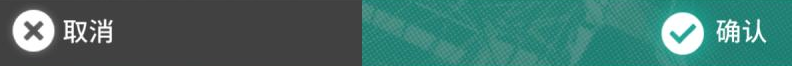
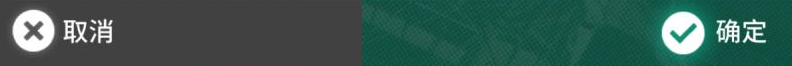
fix: release BlackFlow v1.1.17 with real refresh confirmation template

diff --git a/unit_test/MaaCore/BlackFlowMerchantInventoryReplay.h b/unit_test/MaaCore/BlackFlowMerchantInventoryReplay.h
@@ -66,6 +66,9 @@ void merchant_inventory_regressions(const std::filesystem::path& repo, Test&& te
         require(!image.empty(), name);
         return image;
     };
+    const auto refresh_dialog =
+        MAA_NS::imread(repo / "unit_test/MaaCore/fixtures/blackflow-recovery/20260930/refresh-confirm-wallet-16.jpg");
+    require(!refresh_dialog.empty(), "captured refresh dialog missing");
     const std::string refresh_confirm = "BlackFlow@Roguelike@AutomationShopRefreshConfirm";
     auto confirm_visible = [&](const cv::Mat& image) {
         Matcher matcher(image);
@@ -87,25 +90,38 @@ void merchant_inventory_regressions(const std::filesystem::path& repo, Test&& te
         const auto result = analyzer.analyze();
         require(result && result->task_ptr->name == refresh->name, "shelf routed to payment confirmation");
     });
-    test("shared green confirmation dialog remains recognizable", [&] {
-        // This is an actual inventory-full prompt with the same confirmation row,
-        // not a fabricated recording of a refresh dialog.
-        require(confirm_visible(refresh_frame("shared-confirm-dialog.jpg")), "real confirmation row rejected");
+    test("captured refresh confirmation is recognized before payment", [&] {
+        require(confirm_visible(refresh_dialog), "captured refresh confirmation rejected");
+        require(!BlackFlowStoreReplayAccess::wallet_page(store, refresh_dialog), "unpaid dialog accepted as a shelf");
+    });
+    test("opened refresh dialog routes to confirmation through the production pipeline", [&] {
+        PipelineAnalyzer analyzer(refresh_dialog);
+        analyzer.set_tasks(Task.get("BlackFlow@Roguelike@AutomationShopRefresh")->next);
+        const auto result = analyzer.analyze();
+        require(result && result->task_ptr->name == refresh_confirm, "opened dialog did not route to confirmation");
+    });
+    test("inventory-full confirmation is not a refresh confirmation", [&] {
+        require(!confirm_visible(refresh_frame("shared-confirm-dialog.jpg")), "inventory prompt accepted for refresh");
     });
     test("compressed confirmation dialog remains recognizable", [&] {
         std::vector<uchar> jpeg;
-        require(
-            cv::imencode(".jpg", refresh_frame("shared-confirm-dialog.jpg"), jpeg, { cv::IMWRITE_JPEG_QUALITY, 45 }),
-            "JPEG encoding failed");
+        require(cv::imencode(".jpg", refresh_dialog, jpeg, { cv::IMWRITE_JPEG_QUALITY, 45 }), "JPEG encoding failed");
         require(confirm_visible(cv::imdecode(jpeg, cv::IMREAD_COLOR)), "compressed confirmation rejected");
     });
+    test("refresh confirmation tolerates moderate brightness variation", [&] {
+        for (const double gain : { 0.8, 1.15 }) {
+            cv::Mat image;
+            refresh_dialog.convertTo(image, -1, gain);
+            require(confirm_visible(image), "brightness variation rejected refresh confirmation");
+        }
+    });
     test("confirmation row without its cancel button is rejected", [&] {
-        auto image = refresh_frame("shared-confirm-dialog.jpg");
+        auto image = refresh_dialog.clone();
         image(cv::Rect(285, 455, 130, 61)).setTo(cv::Scalar(60, 60, 60));
         require(!confirm_visible(image), "missing cancel button accepted");
     });
     test("confirmation row without its confirm button is rejected", [&] {
-        auto image = refresh_frame("shared-confirm-dialog.jpg");
+        auto image = refresh_dialog.clone();
         image(cv::Rect(928, 455, 133, 61)).setTo(cv::Scalar(95, 158, 112));
         require(!confirm_visible(image), "missing confirm button accepted");
     });
@@ -119,8 +135,7 @@ void merchant_inventory_regressions(const std::filesystem::path& repo, Test&& te
     });
     test("confirmation row outside its expected position is rejected", [&] {
         auto image = refresh_frame("refresh-paid-wallet-18.jpg");
-        const auto dialog = refresh_frame("shared-confirm-dialog.jpg");
-        dialog(cv::Rect(278, 454, 792, 66)).copyTo(image(cv::Rect(338, 454, 792, 66)));
+        refresh_dialog(cv::Rect(278, 454, 792, 66)).copyTo(image(cv::Rect(338, 454, 792, 66)));
         require(!confirm_visible(image), "shifted confirmation row accepted");
     });
     test("legacy red confirmation button remains recognizable", [&] {

diff --git a/unit_test/MaaCore/fixtures/blackflow-recovery/20260929/README.md b/unit_test/MaaCore/fixtures/blackflow-recovery/20260929/README.md
@@ -1,5 +1,11 @@
 # Refresh confirmation false-positive regression
 
+The following describes the v1.1.16 fix and its original validation gap. The
+September 30 regression showed that the inventory-full row is not interchangeable
+with a real refresh row. `shared-confirm-dialog.jpg` is now a negative example;
+the real positive sample and replacement template are documented in
+[`../20260930/README.md`](../20260930/README.md).
+
 Unmodified 1280 × 720 screenshots, with SHA-256 hashes:
 
[1 lines of base64/hex data omitted]
@@ -11,15 +17,15 @@ template matched shelf coordinates `[954, 442, 188, 54]` at 0.801171601, exceedi
 The receipt gate therefore never read the wallet and stopped after 30 seconds. Both
 terminal frames reproduce the false match through the production Matcher.
 
-The positive frame is a real inventory-full dialog using the shared cancel/confirm
-row. It is **not** a captured refresh dialog. The new BlackFlow-only template is an
+The original positive frame was a real inventory-full dialog using a cancel/confirm
+row. It is **not** a captured refresh dialog. The v1.1.16 BlackFlow-only template was an
 unscaled, unretouched crop `[278, 454, 792, 66]` of this frame, including both buttons.
 Matching the row does not establish payment; the existing shop and consecutive
 exact-debit checks remain necessary. Its click rectangle is restricted to the right
 confirmation button, rather than the entire recognized row.
 
-Native replay also checks a JPEG-quality-45 re-encoding, individual buttons covered,
-an isolated old green check button, a shifted row, and a legacy red button pasted
+The v1.1.16 native replay also checked a JPEG-quality-45 re-encoding, individual
+buttons covered, an isolated old green check button, a shifted row, and a legacy red button pasted
 at its expected position. These are explicitly synthetic in-memory variants, not
 additional game recordings. The legacy template is retained unchanged. No new
 complete live-game run has been recorded with the fix.

diff --git a/docs/blackflow/data-contract.md b/docs/blackflow/data-contract.md
@@ -1,5 +1,28 @@
 # BlackFlow 采集契约与下游联动
 
+## 真实刷新弹窗漏识别（v1.1.17，2026-09-30）
+
+v1.1.16 使用零件箱提示的“取消/确认”按钮行作为刷新模板，真实诡意行商刷新弹窗的
+“取消/确定”按钮行匹配低于 0.9，导致弹窗已打开仍重试并停止。改用本次真实刷新截图
+的原尺寸双按钮裁剪；阈值、ROI、右按钮点击位置、旧红色按钮及扣款验证均保持不变。
+零件箱提示转为反例，与此前两张货架误识别原图同时回归。流程分派、打开失败判断和
+付款回执检查继续共用同一个任务资源。
+
+仅改变运行时匹配用的模板像素及资源说明，没有新增识别字段或业务事实，不改变事件
+触发条件、截图路径/布局、采集范围、封包与签名版本。刷新轮次仍须确认精确扣款后
+递增，匹配到确认弹窗本身不构成付款或新货架证据。
+
+已核对 analysis 的 coordination 和 task-families（基准 e17d5567ed02）：独立验证器、
+标准化、专题统计、业务插件和通用宿主无需修改。旧数据兼容与未知版本处理规则不变，
+没有缓存/人工审核失效或历史报告重算，专题分子分母规则不变。
+
+真实样本来源、摘要及合成变体边界见
+`unit_test/MaaCore/fixtures/blackflow-recovery/20260930/README.md`。
+更新后的原生识别/流程回放在旧资源上为 43 项通过、5 项失败，更换资源后 48 项全部
+通过；21 项刷新回执回放和 2 项签名归档/消费者契约检查也通过。尚无修复版完整实机
+对局验证。本次授权发布 v1.1.17 的 Windows、macOS 包及自动更新源，发布结果以
+流水线和公开下载核验为准，不替换或重启运行实例。
+
 ## 诡意行商刷新确认误匹配（v1.1.16，2026-09-29）
 
 v1.1.15 的真实货架截图在刷新扣款 26 → 18 后，将城墙之子图片的一部分误匹配为

diff --git a/unit_test/MaaCore/fixtures/blackflow-recovery/20260930/README.md b/unit_test/MaaCore/fixtures/blackflow-recovery/20260930/README.md
@@ -1,0 +1,31 @@
+# Real refresh confirmation regression
+
+`refresh-confirm-wallet-16.jpg` is the unmodified 1280 × 720 screenshot from
+MAA-003, `run-20260930-062054-472028/images/000550-recovery-store-refresh-failed.jpg`.
[1 lines of base64/hex data omitted]
+
+The run used v1.1.16. At 06:29:43 the refresh button opened a real payment dialog
+asking for 4 ingots, with 16 remaining. Its right button says `确定`; the
+inventory-full prompt used by the v1.1.16 template says `确认` and has a different
+button-row image. The live refresh score was 0.869918, below 0.9, on every retry.
+No confirmation click or debit occurred; collection stopped at 06:29:55.
+Native replay of the saved JPEG scored 0.872369647 and rejected it too.
+
+The replacement template is a lossless, unscaled crop `[278, 454, 792, 66]` of this
+real refresh frame. Its SHA-256 is
[1 lines of base64/hex data omitted]
+The threshold, search ROI, right-button click rectangle, legacy red template and
+payment receipt checks remain unchanged. The September 29 inventory-full frame
+is now a negative example, alongside both real paid-shelf false-positive frames.
+
+The native `BlackFlowRecoveryReplay` checks recognition and the actual next-task
+pipeline on this frame, and rejects the unpaid dialog as a settled shop page.
+JPEG quality 45, brightness gains 0.8/1.15, missing buttons, a shifted row, an
+isolated green check and a legacy red button are explicitly synthetic variants;
+they do not represent additional live recordings.
+
+Command: `unit_test/MaaCore/run_blackflow_recovery_replay.ps1 -CoreBuildDirectory
+build/core-shop-refresh -OutputDirectory build/diagnostics/20260930/recovery-red`.
+The updated expectations failed with the v1.1.16 resource: 43 passed, 5 failed.
+The same executable with the replacement resource passed all 48 checks.
+No complete live-game run with this fix has been recorded.

diff --git a/tools/BlackFlowDataCollection/RELEASE_NOTES.md b/tools/BlackFlowDataCollection/RELEASE_NOTES.md
@@ -1,8 +1,8 @@
-黑流树海采集版 v1.1.16
+黑流树海采集版 v1.1.17
 
 ### 本次更新
 
-* 修复自动采集在诡意行商刷新成功后，仍可能等待并停止的问题。
+* 修复自动采集在诡意行商刷新确认界面停止的问题。
 
 ### 升级
 
@@ -12,8 +12,8 @@
 
 ### 下载
 
-* [Windows x64 国内下载](https://img.lubiao.wiki/maa/blackflow/v1.1.16/MAA-BlackFlow-Data-Collection-v1.1.16-win-x64.zip)
-* [macOS 通用包国内下载](https://img.lubiao.wiki/maa/blackflow/v1.1.16/MAA-BlackFlow-Data-Collection-v1.1.16-macos-universal.dmg)
+* [Windows x64 国内下载](https://img.lubiao.wiki/maa/blackflow/v1.1.17/MAA-BlackFlow-Data-Collection-v1.1.17-win-x64.zip)
+* [macOS 通用包国内下载](https://img.lubiao.wiki/maa/blackflow/v1.1.17/MAA-BlackFlow-Data-Collection-v1.1.17-macos-universal.dmg)
 * GitHub 下载见本 Release 附件。
 
 提交数据时，请直接上传 `debug/BlackFlow` 中程序自动生成的原始 ZIP，不要修改内容或重新压缩。

diff --git a/tools/BlackFlowDataCollection/CHANGELOG.md b/tools/BlackFlowDataCollection/CHANGELOG.md
@@ -1,4 +1,4 @@
-## v1.1.16
+## v1.1.17
 
 ### Highlights
 
@@ -36,6 +36,15 @@ Windows and macOS now support a dedicated collection update channel that preserv
 以下是详细内容：
 
 <details open>
+<summary><b>v1.1.17 (2026-09-30)</b></summary>
+
+### 修复 | Fix
+
+* 修复自动采集在诡意行商刷新确认界面停止的问题。 @Shadowfax-YJ
+
+</details>
+
+<details>
 <summary><b>v1.1.16 (2026-09-29)</b></summary>
 
 ### 修复 | Fix
